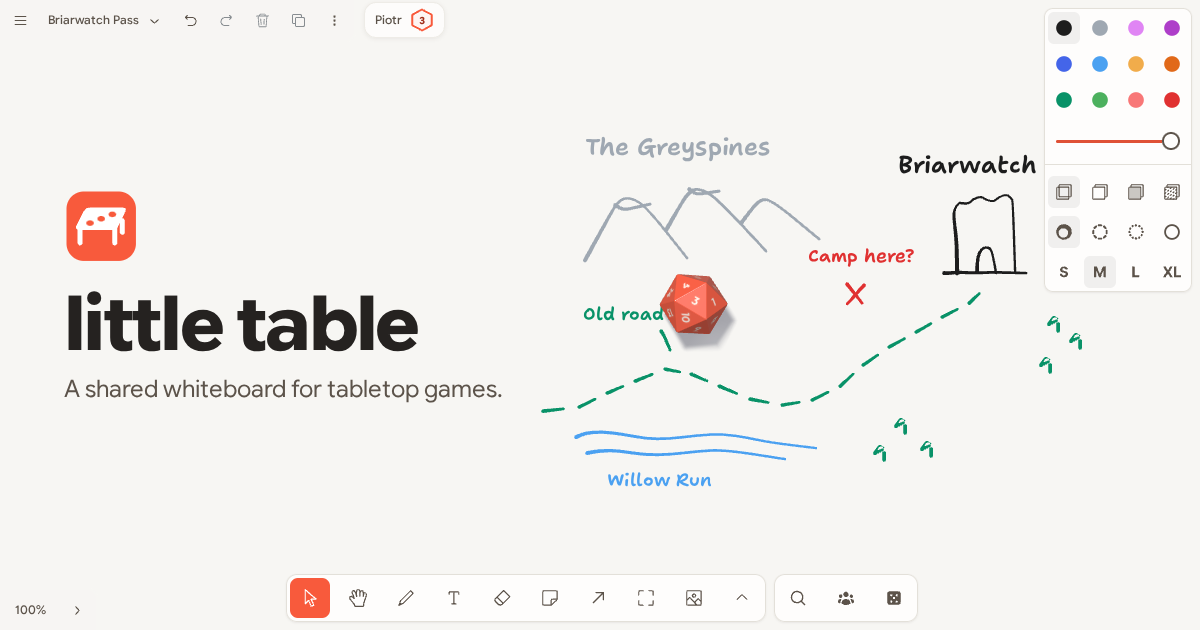
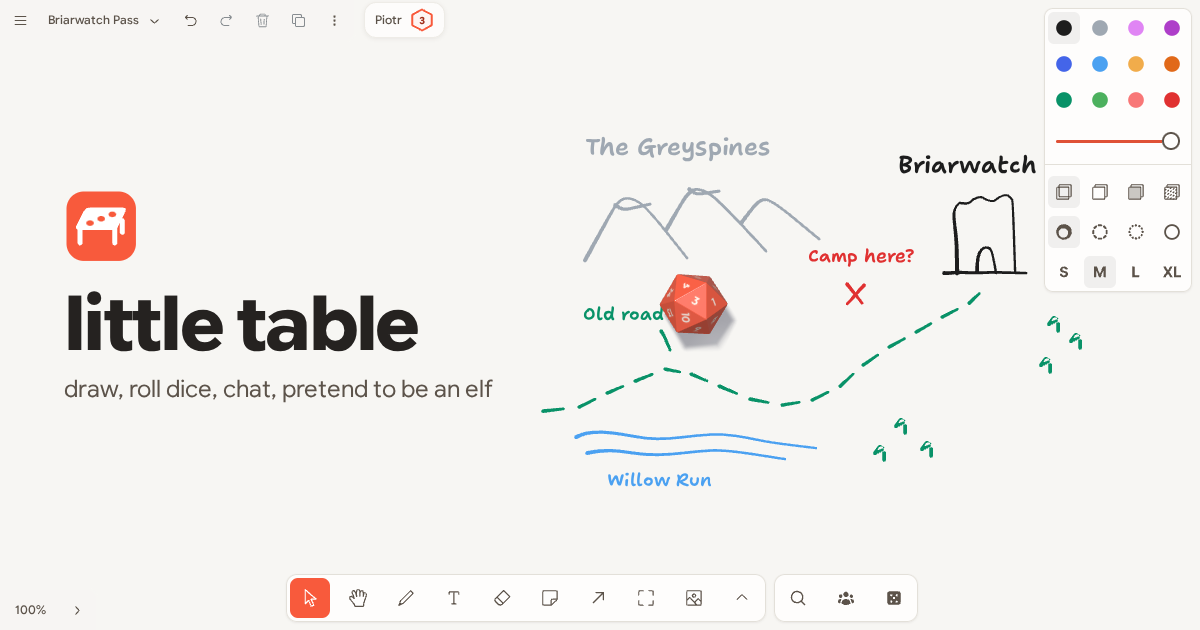
Update the Map Notes share card subtitle

Changed region(s): [[0.0308, 0.6032, 0.4317, 0.6333]]

diff --git a/scripts/open-graph.tsx b/scripts/open-graph.tsx
@@ -257,7 +257,7 @@ function MapNotes() {
           little table
         </text>
         <text fill="#5c534a" fontSize="24" x="64" y="397">
-          A shared whiteboard for tabletop games.
+          draw, roll dice, chat, pretend to be an elf
         </text>
       </g>
     </Card>
